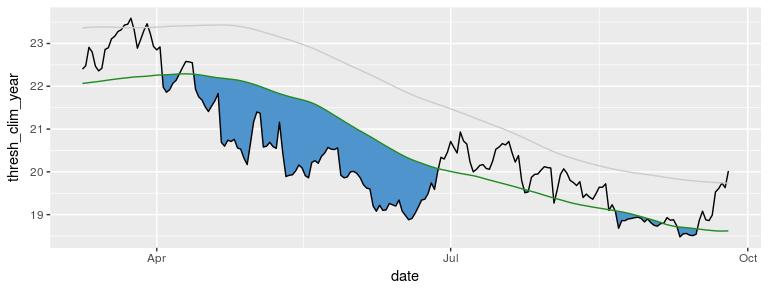
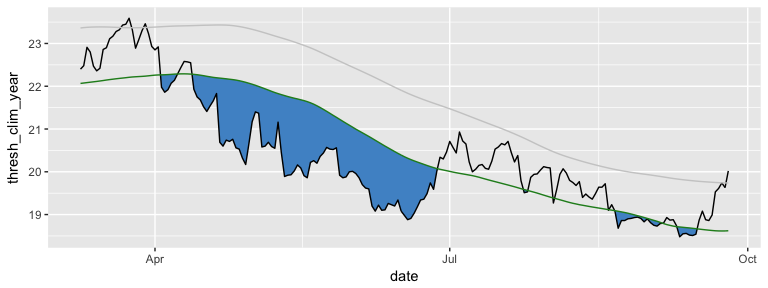
Release v.0.15.0.

diff --git a/README.md b/README.md
@@ -3,9 +3,9 @@ RmarineHeatWaves
 
 [![CRAN\_Status\_Badge](http://www.r-pkg.org/badges/version/RmarineHeatWaves)](https://cran.r-project.org/package=RmarineHeatWaves) [![Travis-CI Build Status](https://travis-ci.org/ajsmit/RmarineHeatWaves.svg?branch=master)](https://travis-ci.org/ajsmit/RmarineHeatWaves) ![](https://cranlogs.r-pkg.org/badges/grand-total/RmarineHeatWaves)
 
-The RmarineHeatWaves package is a translation of the original Python code written by Eric C. J. Oliver that can be found on [GitHub](https://github.com/ecjoliver/marineHeatWaves).
+The **RmarineHeatWaves** package is a translation of the original Python code written by Eric C. J. Oliver that can be found on [GitHub](https://github.com/ecjoliver/marineHeatWaves).
 
-The RmarineHeatWaves R package contains a number of functions which calculate and display marine heat waves according to the definition of Hobday et al. (2016). The marine cold spell option was implemented in version 0.13 (21 Nov 2015) of the Python module as a result of the preparation of Schlegel et al. (in press), wherein the cold events are introduced and briefly discussed.
+The **RmarineHeatWaves** R package contains a number of functions which calculate and display marine heat waves according to the definition of Hobday et al. (2016). The marine cold spell option was implemented in version 0.13 (21 Nov 2015) of the Python module as a result of the preparation of Schlegel et al. (in press), wherein the cold events are introduced and briefly discussed.
 
 This package may be found on [CRAN](https://cran.r-project.org/package=RmarineHeatWaves). Alternatively, you may install it from GitHub by issuing the following command:
 
@@ -108,13 +108,13 @@ lolli_plot(mhw)
 
 ![](README-fig-example1-2.png)
 
-If one requires more control over the output, one may choose to create these figures in ggplot2 as geoms. These require only the `clim` dataframe from the `detect()` ouput:
+If one requires more control over the output, one may choose to create these figures in **ggplot2** as 'geoms'. These require only the `clim` dataframe from the `detect()` ouput:
 
 ``` r
 mhw2 <- mhw$clim
 mhw2 <- mhw2[10580:10690,]
 
-ggplot(mhw2, aes(x = date, y = temp, thresh = thresh_clim_year)) +
+ggplot(mhw2, aes(x = date, y = temp, y2 = thresh_clim_year)) +
   geom_flame() +
   geom_text(aes(x = as.Date("2011-02-01"), y = 28, label = "The MHW that launched\na thousand papers."))
 ```
@@ -131,26 +131,27 @@ ggplot(mhw$event, aes(x = date_start, y = int_max)) +
 
 ![](README-fig-example2-2.png)
 
-The default output of these function may not be to your liking. If so, not to worry. As ggplot geoms, they are highly maleable. For example, if one were to choose to reproduce the format of the MHWs as seen in Hobday et al. (2016), the code would look something like this:
+The default output of these function may not be to your liking. If so, not to worry. As **ggplot2** geoms, they are highly maleable. For example, if one were to choose to reproduce the format of the MHWs as seen in Hobday et al. (2016), the code would look something like this:
 
 ``` r
 # It is necessary to give geom_flame() at least one row on either side of the event in order to calculate the ploygon corners smoothly
 mhw_top <- mhw2[49:110,]
 
 ggplot(data = mhw2, aes(x = date)) +
-  geom_flame(aes(y = temp, thresh = thresh_clim_year, fill = "all"), show.legend = T) +
-  geom_flame(data = mhw_top, aes(y = temp, thresh = thresh_clim_year, fill = "top"), show.legend = T) +
+  geom_flame(aes(y = temp, y2 = thresh_clim_year, fill = "all"), show.legend = T) +
+  geom_flame(data = mhw_top, aes(y = temp, y2 = thresh_clim_year, fill = "top"), show.legend = T) +
   geom_line(aes(y = temp, colour = "temp")) +
   geom_line(aes(y = thresh_clim_year, colour = "thresh")) +
   geom_line(aes(y = seas_clim_year, colour = "seas")) +
   scale_colour_manual(name = "Line Colour", values = c("temp" = "black", "thresh" =  "forestgreen","seas" = "grey80")) +
   scale_fill_manual(name = "Event Colour", values = c("all" = "salmon", "top" = "red")) +
-  guides(colour = guide_legend(override.aes = list(fill = NA)))
+  guides(colour = guide_legend(override.aes = list(fill = NA))) +
+  xlab("Date") + ylab("Temperature [degrees C]")
 ```
 
 ![](README-fig-example3-1.png)
 
-Conversely, should one not wish ot highlight any events with geom)lolli, it would look like this:
+Conversely, should one not wish to highlight any events with `geom_lolli()`, it would look like this:
 
 ``` r
 # Note that this is accomplished by setting 'colour.n = NA', not by setting 'n = 0'.
@@ -200,14 +201,14 @@ lolli_plot(mcs)
 
 ![](README-fig-example5-2.png)
 
-Cold spell figures may be created as geoms in ggplot, too:
+Cold spell figures may be created as geoms in **ggplot2**, too:
 
 ``` r
 mcs2 <- mcs$clim
 mcs2 <- mcs2[2990:3190,]
 
 # Note that the plot centres on the polygons, so it may be necessary to manually zoom out a bit
-ggplot(mcs2, aes(x = date, y = thresh_clim_year, thresh = temp)) +
+ggplot(mcs2, aes(x = date, y = thresh_clim_year, y2 = temp)) +
   geom_flame(fill = "steelblue3") +
   geom_line(aes(y = temp), colour = "black") +
   geom_line(aes(y = thresh_clim_year), colour = "forestgreen") +

diff --git a/NEWS.md b/NEWS.md
@@ -3,11 +3,15 @@ output: pdf_document
 ---
 
 # VERSION CHANGES
+## Changes in version 0.15.0 (15 February 2017)
+* Final edits to 'geom_flame' and 'geom_lolli'. 
+* Updated examples.
+
 ## Changes in version 0.14.6 (15 February 2017)
-* Edits to 'geom_flame' and 'geom_lolli'
+* Edits to 'geom_flame' and 'geom_lolli'.
 
 ## Changes in version 0.14.5 (14 February 2017)
-* Edits to 'geom_flame' and 'geom_lolli'
+* Edits to 'geom_flame' and 'geom_lolli'.
 
 ## Changes in version 0.14.4 (11 February 2017)
 * Changed 'geom_event_line' and 'geom_lolli_plot' to 'geom_flame' and 'geom_lolli'

diff --git a/cran-comments.md b/cran-comments.md
@@ -1,3 +1,3 @@
 # Update:
 
-First release of update 0.14.3.
+First release of update 0.15.0.
